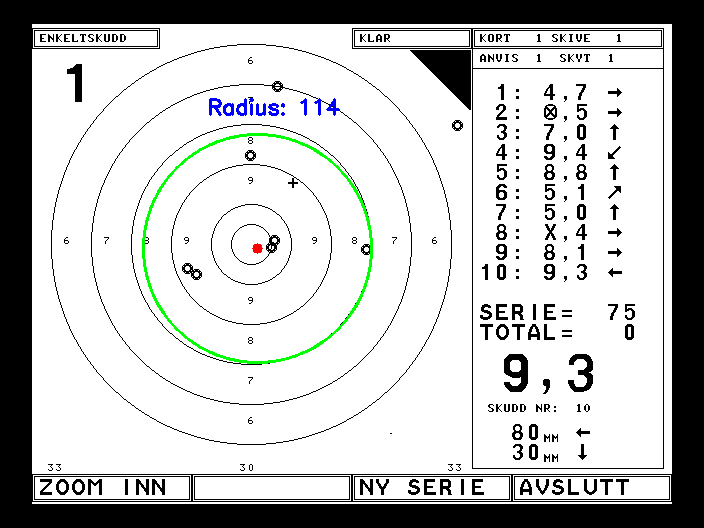
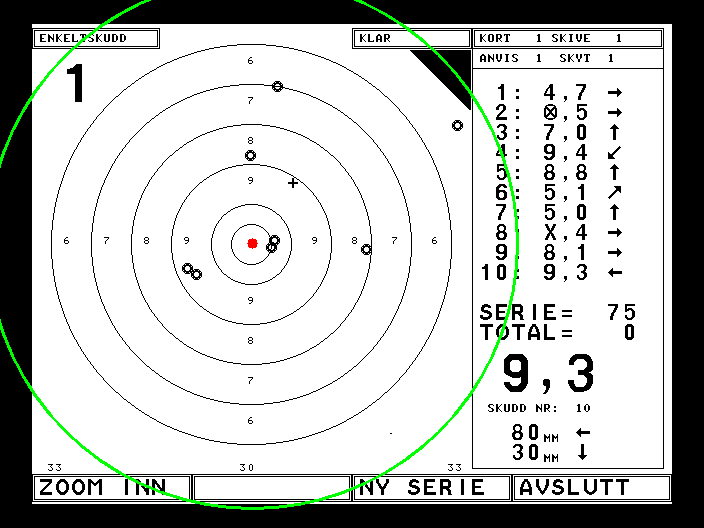
Center correctly identified

diff --git a/detect_scoring_zones.py b/detect_scoring_zones.py
@@ -24,6 +24,7 @@ def get_config():
         # Filer og kataloger
         'visualization_dir': Path("Visualiseringer"),
         'log_file_kronologisk': "ytelse_kronologisk.txt",
+        'debug_file': "debug_detect_outer_circle.txt",
         
         # Visualisering - Farger (BGR format)
         'color_green': (0, 255, 0),       # Grønn for contours/sirkler
@@ -53,10 +54,10 @@ def get_config():
         'outer_circle_mag_percentile': 60.0,        # Percentile for edge threshold
         'outer_circle_filter_angle_deg': 2.0,       # Filter gradients within ±N degrees of horizontal/vertical
         'outer_circle_max_edge_points': 12000,      # Maks antall edge points
-        'outer_circle_rmin_frac': 0.25,             # Minimum radius fraction
-        'outer_circle_rmax_frac': 0.55,              # Maximum radius fraction
-        'outer_circle_t_steps': 9,                  # Antall t-verdier for voting
-        'outer_circle_center_win': 5,               # Vindu for subpixel center refinement
+        'outer_circle_center_win': 5,               # Halvbredde for subpixel center refinement (win=5 => 11×11 vindu)
+        'outer_circle_center_pairs': 40000,          # Antall random par for intersection-of-normals voting
+        'outer_circle_parallel_eps': 0.15,           # Reject pairs if abs(cross) < this (for numerical stability)
+        'outer_circle_max_center_distance_frac': 0.8,  # Max distance from image center (None to disable)
         'outer_circle_align_min': 0.7,              # Minimum radial alignment
         'outer_circle_r_bin_px': 1.0,               # Bin width for radius histogram
         'outer_circle_r_smooth_sigma': 2.0,         # Smoothing sigma for radius histogram
@@ -387,58 +388,125 @@ def detect_outer_circle(img: np.ndarray, cfg: dict, debug: bool = False,
         w = w[indices]
     log_operation_time(filename, "detect_outer_circle", "threshold_extract", time.time() - start_threshold)
     
-    # 5) Center voting
+    # 5) Center voting using intersection-of-normals
     start_voting = time.time()
-    acc = np.zeros((new_h, new_w), dtype=np.float32)
+    accf = np.zeros((new_h, new_w), dtype=np.float32)
     
-    rmin = cfg['outer_circle_rmin_frac'] * min(new_h, new_w)
-    rmax = cfg['outer_circle_rmax_frac'] * min(new_h, new_w)
-    t_steps = cfg['outer_circle_t_steps']
-    t_values = np.linspace(rmin, rmax, t_steps)
+    # Debug statistics (collect in list, write to file at end)
+    debug_lines = []
+    n_candidates = len(x)
+    if debug:
+        debug_lines.append(f"Candidate edge points: {n_candidates}")
     
-    for t in t_values:
-        # Vote both directions (inward and outward)
-        # For a dark circle on light background: gradient points outward (away from center)
-        # For a light circle on dark background: gradient points inward (toward center)
-        # We vote in both directions to handle both cases
-        cx1 = x - t * u[:, 0]  # Vote in direction opposite to gradient (toward center for dark circle)
-        cy1 = y - t * u[:, 1]
-        cx2 = x + t * u[:, 0]  # Vote in gradient direction (away from center for dark circle)
-        cy2 = y + t * u[:, 1]
-        
-        # Round to integers
-        cx1_int = np.round(cx1).astype(int)
-        cy1_int = np.round(cy1).astype(int)
-        cx2_int = np.round(cx2).astype(int)
-        cy2_int = np.round(cy2).astype(int)
-        
-        # Filter out-of-bounds votes (ignore instead of clipping)
-        valid1 = (cx1_int >= 0) & (cx1_int < new_w) & (cy1_int >= 0) & (cy1_int < new_h)
-        valid2 = (cx2_int >= 0) & (cx2_int < new_w) & (cy2_int >= 0) & (cy2_int < new_h)
-        
-        # Only vote for valid positions
-        if np.any(valid1):
-            idx1 = cy1_int[valid1] * new_w + cx1_int[valid1]
-            w1 = w[valid1]
-            acc_flat = acc.flatten()
-            np.add.at(acc_flat, idx1, w1)
-            acc = acc_flat.reshape((new_h, new_w))
-        
-        if np.any(valid2):
-            idx2 = cy2_int[valid2] * new_w + cx2_int[valid2]
-            w2 = w[valid2]
-            acc_flat = acc.flatten()
-            np.add.at(acc_flat, idx2, w2)
-            acc = acc_flat.reshape((new_h, new_w))
+    # Sample random pairs
+    M = cfg['outer_circle_center_pairs']
+    rng = np.random.default_rng(42)
+    
+    # Generate random pairs (i != j)
+    i_indices = rng.integers(0, n_candidates, size=M)
+    j_indices = rng.integers(0, n_candidates, size=M)
+    # Ensure i != j
+    same_mask = i_indices == j_indices
+    j_indices[same_mask] = (j_indices[same_mask] + 1) % n_candidates
+    
+    if debug:
+        debug_lines.append(f"Pairs sampled: {M}")
+    
+    # Extract pairs
+    x1, y1 = x[i_indices], y[i_indices]
+    x2, y2 = x[j_indices], y[j_indices]
+    ux1, uy1 = u[i_indices, 0], u[i_indices, 1]
+    ux2, uy2 = u[j_indices, 0], u[j_indices, 1]
+    w1, w2 = w[i_indices], w[j_indices]
+    
+    # Compute cross product for parallel check
+    cross = ux1 * uy2 - uy1 * ux2
+    parallel_eps = cfg['outer_circle_parallel_eps']
+    valid_parallel = np.abs(cross) >= parallel_eps
+    
+    n_rejected_parallel = np.sum(~valid_parallel)
+    if debug:
+        debug_lines.append(f"Pairs rejected as parallel: {n_rejected_parallel}")
+    
+    # Filter to valid pairs
+    x1 = x1[valid_parallel]
+    y1 = y1[valid_parallel]
+    x2 = x2[valid_parallel]
+    y2 = y2[valid_parallel]
+    ux1 = ux1[valid_parallel]
+    uy1 = uy1[valid_parallel]
+    ux2 = ux2[valid_parallel]
+    uy2 = uy2[valid_parallel]
+    w1 = w1[valid_parallel]
+    w2 = w2[valid_parallel]
+    cross = cross[valid_parallel]
+    
+    # Solve for intersection: L1(s) = p1 + s*u1, L2(t) = p2 + t*u2
+    # System: [u1x -u2x] [s] = [x2-x1]
+    #         [u1y -u2y] [t]   [y2-y1]
+    # Solution: s = ((x2-x1)*u2y - (y2-y1)*u2x) / cross
+    dx = x2 - x1
+    dy = y2 - y1
+    s = (dx * uy2 - dy * ux2) / cross
+    
+    # Intersection point
+    cx = x1 + s * ux1
+    cy = y1 + s * uy1
+    
+    # Optional: filter by distance from image center
+    max_dist_frac = cfg.get('outer_circle_max_center_distance_frac', None)
+    if max_dist_frac is not None:
+        img_center_x = new_w / 2.0
+        img_center_y = new_h / 2.0
+        dist_from_center = np.sqrt((cx - img_center_x)**2 + (cy - img_center_y)**2)
+        max_dist = max_dist_frac * np.hypot(new_w, new_h)
+        valid_distance = dist_from_center <= max_dist
+        cx = cx[valid_distance]
+        cy = cy[valid_distance]
+        w1 = w1[valid_distance]
+        w2 = w2[valid_distance]
+        n_rejected_distance = np.sum(~valid_distance)
+        if debug:
+            debug_lines.append(f"Pairs rejected by distance: {n_rejected_distance}")
+    
+    # Round to integer pixel coordinates
+    cx_int = np.round(cx).astype(int)
+    cy_int = np.round(cy).astype(int)
+    
+    # Filter out-of-bounds (DO NOT clip)
+    valid_bounds = (cx_int >= 0) & (cx_int < new_w) & (cy_int >= 0) & (cy_int < new_h)
+    n_rejected_bounds = np.sum(~valid_bounds)
+    if debug:
+        debug_lines.append(f"Pairs rejected as out-of-bounds: {n_rejected_bounds}")
+    
+    cx_int = cx_int[valid_bounds]
+    cy_int = cy_int[valid_bounds]
+    vote_weights = np.minimum(w1[valid_bounds], w2[valid_bounds])  # Use min(w1, w2)
+    
+    # Vote using bincount
+    if len(cx_int) > 0:
+        idx = cy_int * new_w + cx_int
+        accf_flat = accf.flatten()
+        np.add.at(accf_flat, idx, vote_weights)
+        accf = accf_flat.reshape((new_h, new_w))
+    
+    n_valid_votes = len(cx_int)
+    if debug:
+        debug_lines.append(f"Valid votes cast: {n_valid_votes}")
     
     # Find peak
-    peak_idx = np.argmax(acc)
+    peak_idx = np.argmax(accf)
     peak_y = peak_idx // new_w
     peak_x = peak_idx % new_w
     c_hat = (peak_x, peak_y)
+    acc_max = accf[peak_y, peak_x]
+    if debug:
+        debug_lines.append(f"Peak location: ({peak_x}, {peak_y}), accumulator max: {acc_max:.2f}")
+    
     log_operation_time(filename, "detect_outer_circle", "voting", time.time() - start_voting)
     
     # 6) Subpixel center refinement
+    # win is half-width: win=5 means 11×11 window (2*win+1)
     start_center_refine = time.time()
     win = cfg['outer_circle_center_win']
     x_min = max(0, peak_x - win)
@@ -446,7 +514,7 @@ def detect_outer_circle(img: np.ndarray, cfg: dict, debug: bool = False,
     y_min = max(0, peak_y - win)
     y_max = min(new_h, peak_y + win + 1)
     
-    window = acc[y_min:y_max, x_min:x_max]
+    window = accf[y_min:y_max, x_min:x_max]
     y_grid, x_grid = np.mgrid[y_min:y_max, x_min:x_max]
     
     total_weight = np.sum(window)
@@ -565,14 +633,30 @@ def detect_outer_circle(img: np.ndarray, cfg: dict, debug: bool = False,
     total_time = time.time() - start_total
     log_performance(filename, "detect_outer_circle", "total", total_time)
     
-    # 10) Debug output
+    # 10) Write debug file
+    if debug and len(debug_lines) > 0:
+        debug_filepath = cfg.get('debug_file', 'debug_detect_outer_circle.txt')
+        with open(debug_filepath, 'w', encoding='utf-8') as f:
+            f.write(f"Debug output for detect_outer_circle\n")
+            f.write(f"Image: {filename}\n")
+            f.write(f"Downscaled size: {new_w}×{new_h}\n")
+            f.write(f"Scale factor: {scale:.4f}\n")
+            f.write(f"\n")
+            for line in debug_lines:
+                f.write(f"{line}\n")
+            f.write(f"\nFinal center (downscaled): ({c0x:.2f}, {c0y:.2f})\n")
+            f.write(f"Final center (original): ({cx_orig:.2f}, {cy_orig:.2f})\n")
+            f.write(f"Final radius (downscaled): {r_final:.2f}\n")
+            f.write(f"Final radius (original): {r_orig:.2f}\n")
+    
+    # 11) Debug output
     debug_dict = None
     if debug:
         debug_dict = {
             'downscaled_gray': gray,
             'mag': mag,
             'edge_mask': edge_mask,
-            'accumulator': acc,
+            'accumulator': accf,
             'c_hat': c_hat,
             'c0': (c0x, c0y),
             'radius_histogram': hist_smooth,
